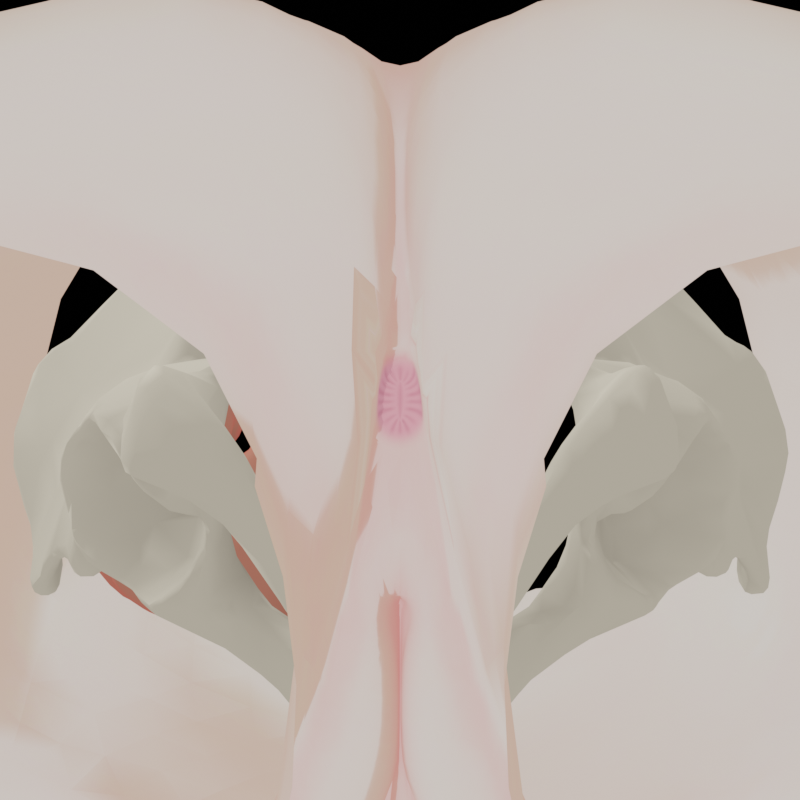
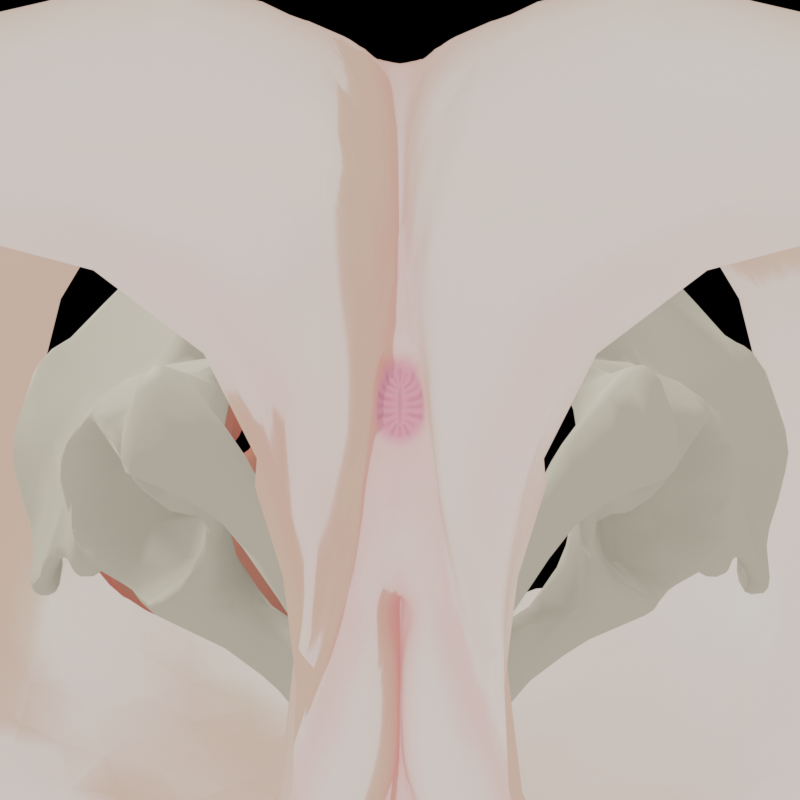
build8: smooth the cleft's toon shading (jagged cheek edges, white sliver)
The low-poly body's big triangles and its 1024 px normal map (magnified ~15x at
the anus, still carrying the old cleft shape) made the toon shader's hard
light/shadow cut zigzag along the cheek walls and left a sliver above the anus.

- refine the cleft (each edge split in 4, new vertices on the Phong surface of
  the original triangles; region follows the curved cleft floor)
- cut the pucker's hole in its own surface coordinates so the join strip has
  no tall slivers; outer ring count follows the finer hole
- push relief along the smooth base normal and taper the slit to its tips
  (fixes the spike at the slit end)
- fade the body normal map out over the cleft via RawShade's Use Normals?
  input, driven by a cleft_nm_off attribute with an editable strength node

Claude-Session: https://claude.ai/code/session_01GkHsFACxGEb36mHX3TdUWk

diff --git a/scripts/build8.py b/scripts/build8.py
@@ -90,16 +90,101 @@ for v in bm.verts:               # x' = x * (1 - SQ*w): monotonic in x, so nothi
 bm.normal_update()
 report["cleft_squeeze"] = SQ
 
-# ======================= 3. region to rebuild + smooth base surface (old pucker faired away) =======================
+# ======================= 2c. refine the cleft =======================
+# The body is a low-poly game mesh: across its big triangles the toon shader's hard light/shadow cut comes out as a
+# zigzag along the cheek walls, and the strip joining the dense pucker to it gets long thin triangles (white slivers).
+# Split every cleft edge into 4 and put the new vertices on the Phong surface of the original triangles (curved by the
+# vertex normals): old vertices stay put, so the silhouette is unchanged.
 from mathutils.bvhtree import BVHTree
 from mathutils.interpolate import poly_3d_calc
+REFINE_CUTS = 3
+A_FRONT, A_BACK = 45, 80         # mm along the cleft: towards the perineum / up towards the coccyx
 
-EA, EB = 0.0098, 0.0080          # projected semi-axes of the rebuilt region (AP, lateral)
+# the cleft floor curves away from the local frame further up (19 mm off at 45 mm, 56 mm at 75 mm), so the region
+# follows a sampled midline floor profile instead of a fixed height band
+_t = BVHTree.FromBMesh(bm); _fa, _fh = [], []
+for a_mm in range(-A_FRONT - 10, A_BACK + 11, 5):
+    P = O + u * (a_mm / 1000)
+    hit = _t.ray_cast(P - n * 0.08, n, 0.2)[0]
+    if hit is not None:
+        _fa.append(a_mm); _fh.append((hit - O).dot(n) * 1000)
+
+
+def cleft_floor_h(a_mm):
+    return float(np.interp(a_mm, _fa, _fh))
+
+
+def cleft_coords(p):
+    a, b, h = (x * 1000 for x in to_local(p))
+    return a, b, h - cleft_floor_h(a)
+
+
+def in_refine(p):
+    a, b, hr = cleft_coords(p)
+    return -A_FRONT < a < A_BACK and abs(b) < 28 and -15 < hr < 30
+
+
+old = bm.copy(); bmesh.ops.triangulate(old, faces=old.faces[:]); old.faces.ensure_lookup_table(); old.normal_update()
+old_tree = BVHTree.FromBMesh(old)
+
+
+def phong_old(p, alpha=0.75):
+    loc, _, fi, _ = old_tree.find_nearest(p)
+    vs = [l.vert for l in old.faces[fi].loops]
+    ws = poly_3d_calc([v.co for v in vs], loc)
+    q = Vector()
+    for w_, v in zip(ws, vs):
+        q += (loc - v.normal * (loc - v.co).dot(v.normal)) * w_
+    return loc.lerp(q, alpha)
+
+
+before = set(bm.verts)
+ref_edges = [e for e in bm.edges if not e.is_boundary and all(in_refine(v.co) for v in e.verts)]
+bmesh.ops.subdivide_edges(bm, edges=ref_edges, cuts=REFINE_CUTS, use_grid_fill=True)
+refined_new = [v for v in bm.verts if v not in before]
+for v in refined_new:
+    v.co = phong_old(v.co)
+    if abs(v.co.x) < 2e-5:
+        v.co.x = 0.0
+old.free()
+bm.verts.ensure_lookup_table(); bm.faces.ensure_lookup_table(); bm.normal_update()
+report["refined_edges"] = len(ref_edges); report["refine_new_verts"] = len(refined_new)
+
+# ======================= 3. region to rebuild + smooth base surface (old pucker faired away) =======================
+# The hole is cut in the same (a, s) surface coordinates the pucker is laid out in (a along the cleft, s = arc
+# length across it), a fixed margin outside the outer ring, so the bridge strip is narrow everywhere - a projected
+# ellipse would reach far up the steep cheek walls and leave tall sliver triangles there.
+H0 = 0.007                       # ray origin height above the cleft floor (in the air of the cleft)
+D_AP, D_LAT = 8.8 + 1.2, 0.85 * math.sqrt(8.8 ** 2 - 3.0 ** 2) + 1.2     # outer ring semi-axes + margin, mm
+_cur = BVHTree.FromBMesh(bm)
+
+
+def surf_coords(p, tree=_cur):
+    """(a, s) in mm of a point on the skin: s = arc length across the cleft from the midline (signed by side)"""
+    a = to_local(p)[0]
+    C = O + u * a + n * H0; q = p - C
+    x_, y_ = q.dot(bv), -q.dot(n)
+    sg = 1.0 if x_ >= 0 else -1.0; phi_v = math.atan2(abs(x_), y_)
+    step = math.radians(0.5); phi = 0.0; prev = None; acc = 0.0
+    while True:
+        last = phi >= phi_v
+        ph = min(phi, phi_v)
+        hit = tree.ray_cast(C, -n * math.cos(ph) + bv * (sg * math.sin(ph)), 0.05)[0]
+        if hit is None:
+            return a * 1000, sg * 1e9
+        if prev is not None:
+            acc += (hit - prev).length
+        if last:
+            return a * 1000, sg * acc * 1000
+        prev = hit; phi += step
 
 
 def in_D(p):
     a, b, h = to_local(p)
-    return (a / EA) ** 2 + (b / EB) ** 2 < 1.0 and abs(h) < 0.012
+    if abs(a) > 0.0115 or abs(b) > 0.012 or not -0.008 < h < 0.02:
+        return False
+    a_mm, s_mm = surf_coords(p)
+    return (a_mm / D_AP) ** 2 + (s_mm / D_LAT) ** 2 < 1.0
 
 
 seed = min(bm.verts, key=lambda v: (v.co - O).length)
@@ -198,9 +283,6 @@ FOLDS = [(0, 0.8, 0.07, 6.0), (18, 0.6, 0.055, 5.4), (37, 0.95, 0.065, 6.4), (57
          (160, 0.9, 0.06, 6.2), (180, 0.8, 0.07, 6.0)]
 FOLDS += [(-a, w, sg, re) for a, w, sg, re in FOLDS if 0 < a < 180]
 FUNNEL = 1.2; R_FOLD = 7.4; FOLD_DEPTH = 0.14; SLIT_DEPTH = 0.6
-H0 = 0.007                       # ray origin height above the cleft floor (in the air of the cleft)
-
-
 def crease(theta, r=None):
     s_ = 0.0
     for a, w, sg, re in FOLDS:
@@ -246,9 +328,11 @@ def ring_xy(r, th):
     return r * math.cos(th), K_LAT * math.sqrt(max(r * r - SLIT * SLIT, 0.0)) * math.sin(th)
 
 
+S_OUT = 18 if len(L) < 27 else (36 if len(L) < 54 else 72)
+report["outer_ring_verts"] = S_OUT
 rings = []; new_faces = []; info = {}
 for r in RINGS:
-    S = 144 if r < 6.0 else (72 if r < 7.0 else (36 if r < 8.4 else 18))
+    S = 144 if r < 6.0 else (72 if r < 7.0 else (max(S_OUT, 36) if r < 8.4 else S_OUT))
     ring = []
     for k in range(S):
         th = 2 * math.pi * k / S
@@ -306,17 +390,27 @@ for v in info:
         v.co.x = 0.0
 bm.normal_update()
 base_pos = {v: v.co.copy() for v in info}
+
+
+def base_normal(p):
+    loc, _, fi, _ = base_tree.find_nearest(p)
+    vs = [l.vert for l in btri.faces[fi].loops]
+    ws = poly_3d_calc([v.co for v in vs], loc)
+    return sum((v.normal * w_ for w_, v in zip(ws, vs)), Vector()).normalized()
+
+
+bnorm = {v: base_normal(base_pos[v]) for v in info}
 # relief along the (smooth) base normal: shallow funnel, creases fanning from the slit, closed slit groove
 for v, (r, th) in info.items():
     if v in slit_verts:
         sw = math.sin(th)
-        relief = -FUNNEL - SLIT_DEPTH * sw ** 0.7
+        relief = -FUNNEL - SLIT_DEPTH * sw ** 1.5
         v[pig_layer] = 1.0; v[cre_layer] = 0.9 * sw ** 0.5
     else:
         relief = -FUNNEL * (1 - ss(RINGS[0], R_FOLD, r)) + fold_amp(r) * (0.15 - crease(th, r))
         v[pig_layer] = 1 - ss(5.0, 8.0, r)
         v[cre_layer] = min(1.0, crease(th, r)) * paint_amp(r)
-    v.co = base_pos[v] + v.normal * (relief / 1000)
+    v.co = base_pos[v] + bnorm[v] * (relief / 1000)
 
 outer = rings[-1]
 outer_edges = [bm.edges.get((outer[k], outer[(k + 1) % len(outer)])) for k in range(len(outer))]
@@ -381,7 +475,27 @@ report["pigment_outline_mm"] = {
     "lateral_over_surface": round(2 * K_LAT * math.sqrt(8.0 ** 2 - SLIT ** 2), 1),
     "lateral_projected": round((pr[q].co.x - pr[3 * q].co.x) * 1000, 1),
     "climb_up_cheek_wall": round((to_local(pr[q].co)[2] - floor_h) * 1000, 1)}
+refined_ids = None
+bm.verts.ensure_lookup_table()
+refined_ids = [v.index for v in bm.verts if in_refine(v.co)]
 bm.to_mesh(me); me.update(); bm.free(); base.free(); btri.free()
+if me.has_custom_normals:
+    keep = [tuple(c.vector) for c in me.corner_normals]
+    reg = set(refined_ids)
+    me.normals_split_custom_set([(0.0, 0.0, 0.0) if l.vertex_index in reg else keep[i] for i, l in enumerate(me.loops)])
+    me.update()
+
+
+def cleft_nm_off(p):             # 1 over the refined cleft, fading to 0 before the edge of the refined region
+    a, b, hr = cleft_coords(p)
+    fa = 1 - (ss(A_BACK - 18, A_BACK - 3, a) if a > 0 else ss(A_FRONT - 17, A_FRONT - 3, -a))
+    return fa * (1 - ss(16, 26, abs(b))) * ss(-14, -8, hr) * (1 - ss(22, 29, hr))
+
+
+if "cleft_nm_off" in me.attributes:
+    me.attributes.remove(me.attributes["cleft_nm_off"])
+_nm = me.attributes.new("cleft_nm_off", 'FLOAT', 'POINT')
+_nm.data.foreach_set("value", [cleft_nm_off(v.co) for v in me.vertices])
 
 # ======================= 6. remove the old pigment dot from the textures =======================
 SPOT = (0.1566, 0.5109); RUV = 0.0098
@@ -461,6 +575,27 @@ attr.location = (x0 - 420, y0); stren.location = (x0 - 210, y0)
 cattr.location = (x0 - 420, y0 - 300); cstren.location = (x0 - 210, y0 - 300)
 for nd in (attr, stren, cattr, cstren):
     nd.parent = frame
+
+# body normal map off over the rebuilt cleft: the 1024 px map is magnified ~15x here and still carries the old
+# cleft/anus shape, so under the toon cut it draws texel-sized spikes (sawtooth pigment edge, white sliver above the
+# anus). The refined geometry (2c) carries the shape instead. Drives RawShade's own "Use Normals?" input.
+for nd in [x for x in nt.nodes if x.name.startswith("CleftNM")]:
+    nt.nodes.remove(nd)
+rs = nt.nodes["RawShade"]; use_nm = rs.inputs["Use Normals?"]
+nframe = nt.nodes.new("NodeFrame"); nframe.name = "CleftNM_Frame"; nframe.label = "Body normal map off in the cleft"
+nma = nt.nodes.new("ShaderNodeAttribute"); nma.name = "CleftNM_Mask"; nma.attribute_name = "cleft_nm_off"
+nma.attribute_type = 'GEOMETRY'
+nms = nt.nodes.new("ShaderNodeMath"); nms.name = "CleftNM_Strength"; nms.label = "Strength (1 = normal map fully off)"
+nms.operation = 'MULTIPLY'; nms.inputs[1].default_value = 1.0; nms.use_clamp = True
+nmi = nt.nodes.new("ShaderNodeMath"); nmi.name = "CleftNM_UseNormals"; nmi.label = "Use Normals?"
+nmi.operation = 'MULTIPLY_ADD'; nmi.inputs[1].default_value = -float(use_nm.default_value)
+nmi.inputs[2].default_value = float(use_nm.default_value)          # = original * (1 - mask)
+nt.links.new(nma.outputs["Fac"], nms.inputs[0]); nt.links.new(nms.outputs[0], nmi.inputs[0])
+nt.links.new(nmi.outputs[0], use_nm)
+nma.location = (rs.location.x - 640, rs.location.y - 260); nms.location = (rs.location.x - 430, rs.location.y - 260)
+nmi.location = (rs.location.x - 220, rs.location.y - 260)
+for nd in (nma, nms, nmi):
+    nd.parent = nframe
 
 # ======================= 8. internals: raise fit 1 cm, re-seat sphincter =======================
 E = bpy.data.objects["Internal_Fit_Xform"]
